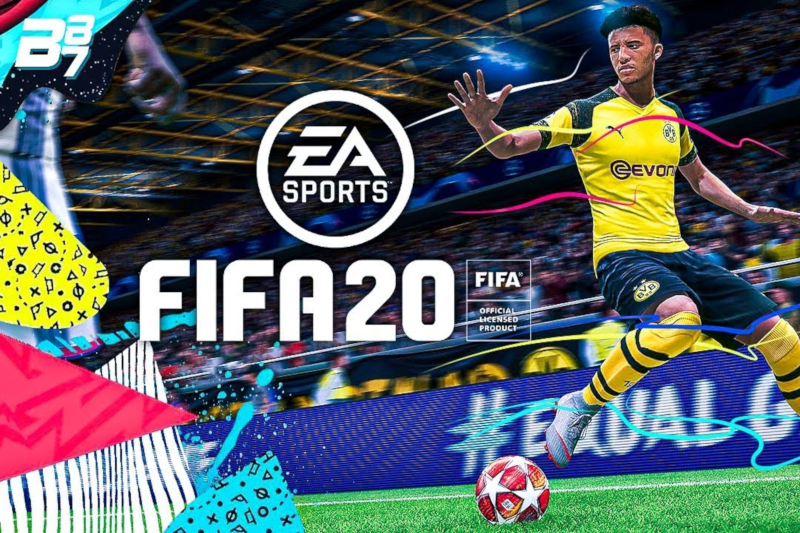
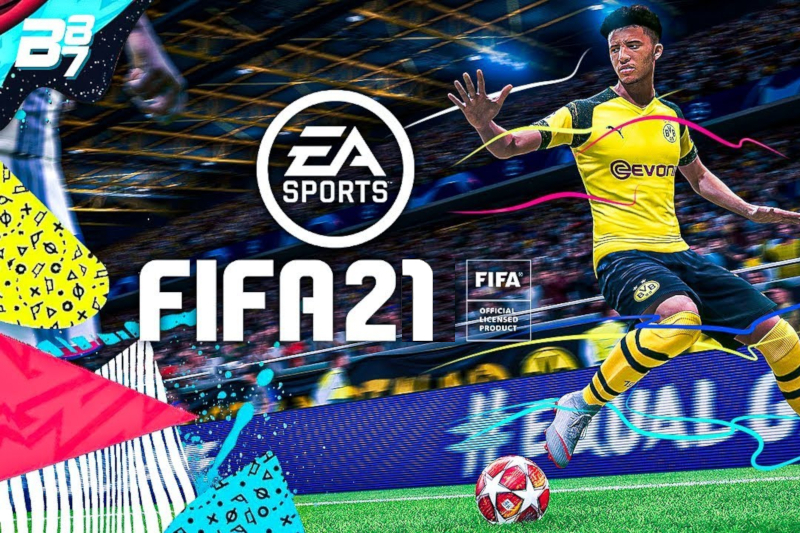
fifa20 to fifa21 display

Changed region(s): [[0.5, 0.4803, 0.5938, 0.6604]]

diff --git a/src/containers/Play.js b/src/containers/Play.js
@@ -93,7 +93,7 @@ class Play extends Component {
                 leagueoflegends: 'League of legends',
                 fortnite: 'Fortnite',
                 counterstrikego: 'Counter Strike',
-                fifa20: 'Fifa 20',
+                fifa20: 'Fifa 21',
                 history: 'Historique'
             })[this.state.tab] || 'undefined';
             let title = document.querySelector('head > title');
@@ -115,7 +115,7 @@ class Play extends Component {
                 leagueoflegends: 'League of legends',
                 fortnite: 'Fortnite',
                 counterstrikego: 'Counter Strike',
-                fifa20: 'Fifa 20',
+                fifa20: 'Fifa 21',
                 history: 'Historique'
             })[tab] || 'undefined';
 

diff --git a/src/components/Fifa20.js b/src/components/Fifa20.js
@@ -306,7 +306,7 @@ class Fifa20 extends Component {
                         multiplayer={true}
                         onSwitch={this.onSwitch}
                     />
-                    <p className="title"><span className="purple">F</span>IFA 20</p>
+                    <p className="title"><span className="purple">F</span>IFA 21</p>
 
                     { this.props.accountConfirmed ?
                         <>

diff --git a/src/libs/infos.js b/src/libs/infos.js
@@ -20,7 +20,7 @@ export const gameNames = {
     leagueoflegends: 'League of legends',
     fortnite: 'Fortnite',
     counterstrikego: 'Counter Strike',
-    fifa20: 'Fifa 20'
+    fifa20: 'Fifa 21'
 };
 
 export const betStatus = {
